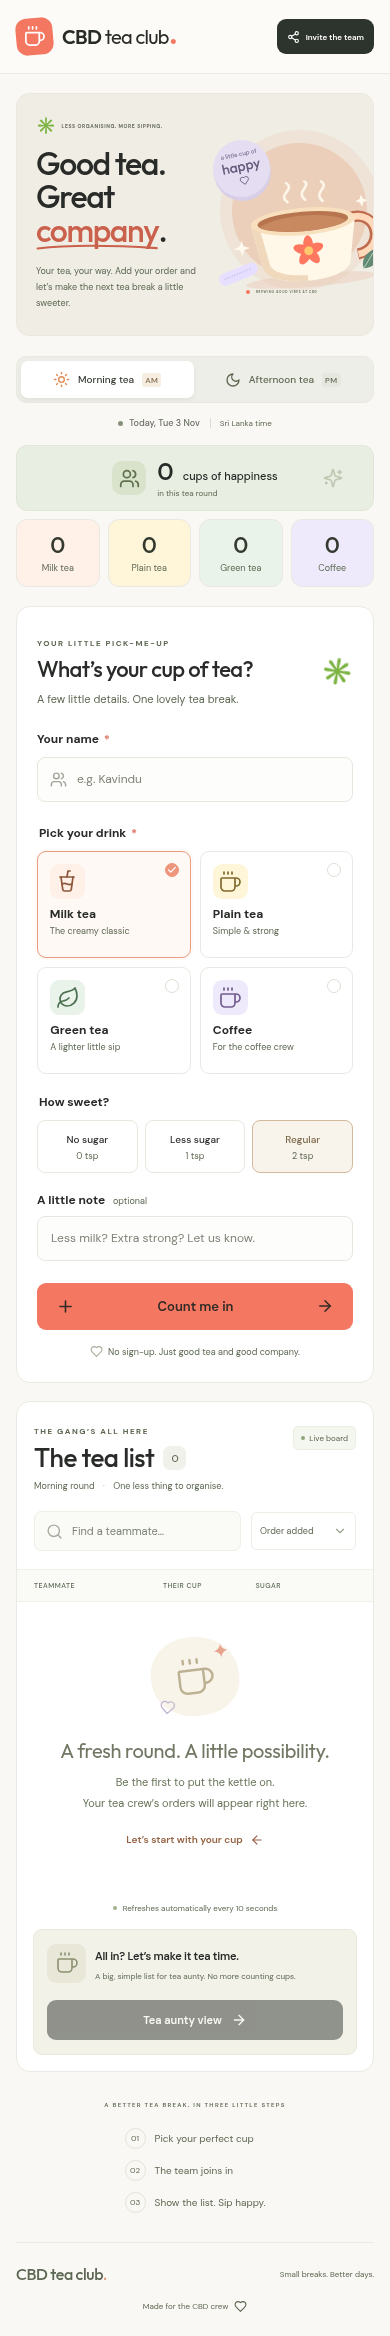
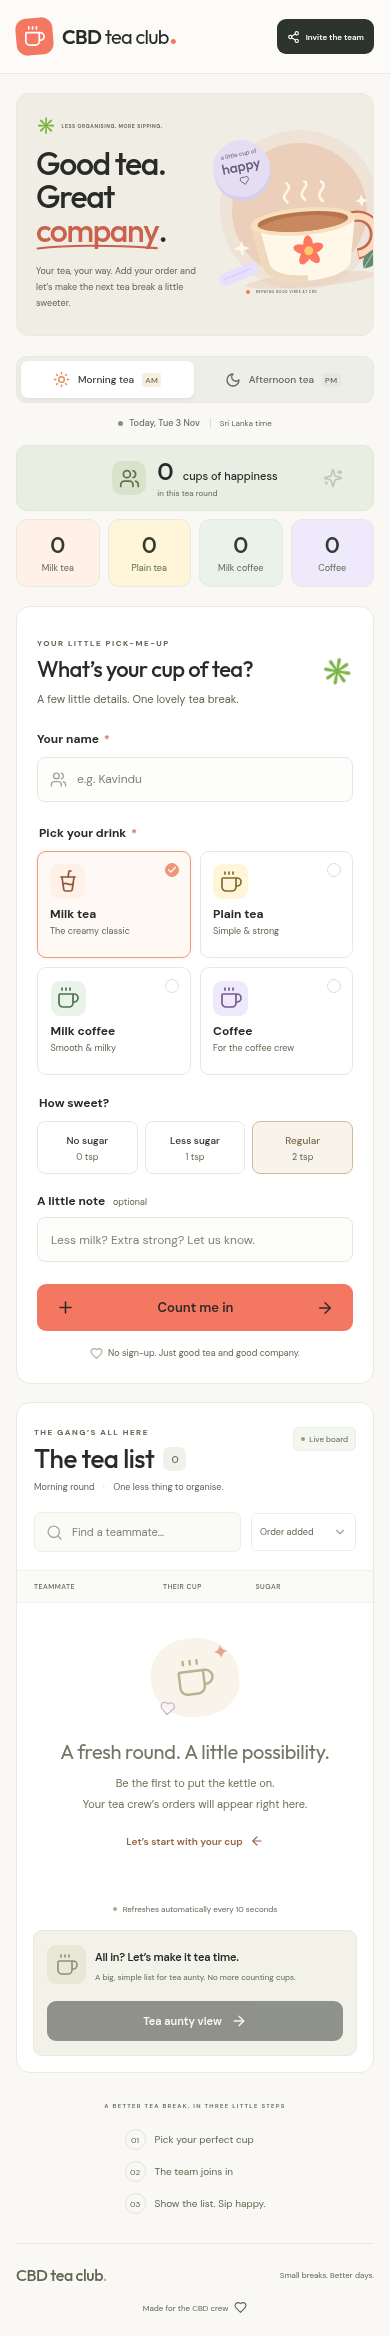
Replace Green tea with Milk coffee on the drinks menu

diff --git a/src/App.tsx b/src/App.tsx
@@ -34,7 +34,7 @@ import {
   X,
 } from 'lucide-react'
 
-type Tea = 'milk' | 'plain' | 'green' | 'coffee'
+type Tea = 'milk' | 'plain' | 'milk-coffee' | 'coffee' | 'green'
 type Sugar = 'none' | 'less' | 'regular'
 type Round = 'morning' | 'afternoon'
 type Order = {
@@ -69,11 +69,11 @@ const drinks: {
     icon: Coffee,
   },
   {
-    id: 'green',
-    name: 'Green tea',
-    description: 'A lighter little sip',
+    id: 'milk-coffee',
+    name: 'Milk coffee',
+    description: 'Smooth & milky',
     color: 'mint',
-    icon: Leaf,
+    icon: Coffee,
   },
   {
     id: 'coffee',
@@ -83,6 +83,19 @@ const drinks: {
     icon: Coffee,
   },
 ]
+// Keep previously saved green-tea orders readable without offering new ones.
+const legacyDrinks: typeof drinks = [
+  {
+    id: 'green',
+    name: 'Green tea',
+    description: 'Previous menu',
+    color: 'mint',
+    icon: Leaf,
+  },
+]
+const drinkFor = (tea: Tea) =>
+  [...drinks, ...legacyDrinks].find((drink) => drink.id === tea)!
+
 const sugars: { id: Sugar; label: string; description: string }[] = [
   { id: 'none', label: 'No sugar', description: '0 tsp' },
   { id: 'less', label: 'Less sugar', description: '1 tsp' },
@@ -377,7 +390,12 @@ export default function App() {
         ),
     [orders, search, sort],
   )
-  const groups = drinks.map((drink) => ({
+  const groups = [
+    ...drinks,
+    ...legacyDrinks.filter((drink) =>
+      orders.some((order) => order.tea === drink.id),
+    ),
+  ].map((drink) => ({
     ...drink,
     orders: orders.filter((order) => order.tea === drink.id),
   }))
@@ -391,7 +409,7 @@ export default function App() {
   const beginEdit = () => {
     if (!myOrder) return
     setName(myOrder.name)
-    setTea(myOrder.tea)
+    setTea(myOrder.tea === 'green' ? 'milk-coffee' : myOrder.tea)
     setSugar(myOrder.sugar)
     setNote(myOrder.note)
     setEditing(true)
@@ -646,9 +664,7 @@ export default function App() {
             </div>
             {myOrder && !editing ? (
               <div className="my-order">
-                <div
-                  className={`my-cup ${drinks.find((d) => d.id === myOrder.tea)?.color}`}
-                >
+                <div className={`my-cup ${drinkFor(myOrder.tea).color}`}>
                   <Coffee size={43} strokeWidth={1.4} />
                   <span className="my-check">
                     <Check size={15} />
@@ -659,8 +675,7 @@ export default function App() {
                 </span>
                 <h3>{myOrder.name}</h3>
                 <p>
-                  {drinks.find((d) => d.id === myOrder.tea)?.name}{' '}
-                  <span>·</span>{' '}
+                  {drinkFor(myOrder.tea).name} <span>·</span>{' '}
                   {sugars.find((s) => s.id === myOrder.sugar)?.label}
                 </p>
                 {myOrder.note && (
@@ -886,7 +901,7 @@ export default function App() {
                 </thead>
                 <tbody>
                   {filtered.map((order, index) => {
-                    const drink = drinks.find((d) => d.id === order.tea)!
+                    const drink = drinkFor(order.tea)
                     return (
                       <tr key={order.id}>
                         <td>

diff --git a/tests/browser/orders.spec.ts b/tests/browser/orders.spec.ts
@@ -10,6 +10,8 @@ for (const round of ['morning', 'afternoon']) {
     const name = `Test ${round} ${Date.now()}`
     await page.goto(`/?round=${round}`)
     await expect(page.getByText('Live board', { exact: true })).toBeVisible()
+    await expect(page.getByRole('radio', { name: 'Milk tea' })).toBeVisible()
+    await expect(page.getByRole('radio', { name: 'Green tea' })).toHaveCount(0)
     await page.getByLabel('Your name').fill(name)
     await page.getByRole('radio', { name: 'Plain tea' }).check()
     await page.getByRole('radio', { name: 'No sugar' }).check()
@@ -32,15 +34,15 @@ for (const round of ['morning', 'afternoon']) {
       second.getByRole('button', { name: 'Edit your order' }),
     ).toHaveCount(0)
     await page.getByRole('button', { name: 'Edit my order' }).click()
-    await page.getByRole('radio', { name: 'Green tea' }).check()
+    await page.getByRole('radio', { name: 'Milk coffee' }).check()
     await page.getByRole('radio', { name: 'Less sugar' }).check()
     await page.getByRole('button', { name: 'Save my changes' }).click()
     await expect(page.getByRole('row').filter({ hasText: name })).toContainText(
-      'Green tea',
+      'Milk coffee',
     )
     await expect(
       second.getByRole('row').filter({ hasText: name }),
-    ).toContainText('Green tea', { timeout: 15000 })
+    ).toContainText('Milk coffee', { timeout: 15000 })
     await page.reload()
     await expect(
       page.getByRole('heading', { name: 'You’re on the list!' }),

diff --git a/README.md b/README.md
@@ -8,7 +8,7 @@ UI previews: [Desktop](docs/desktop-preview.png) · [Mobile](docs/mobile-preview
 
 - Responsive cream, coral, mint and lavender interface, with locally hosted fonts and an original tea illustration.
 - Separate morning and afternoon rounds. A fresh board each day at midnight in **Asia/Colombo**.
-- Milk tea, plain tea, green tea and coffee; no sugar (0 tsp), less sugar (1 tsp), or regular (2 tsp); optional preparation notes.
+- Milk tea, plain tea, milk coffee and coffee; no sugar (0 tsp), less sugar (1 tsp), or regular (2 tsp); optional preparation notes.
 - Shared orders across phones and computers, refreshed every 10 seconds and when you return to the page.
 - Name search, alphabetical sorting, cup totals, browser-owned order editing and cancellation.
 - Large tea-aunty view grouped by drink and sugar preference, including names and notes. Print to paper or PDF from the browser.
